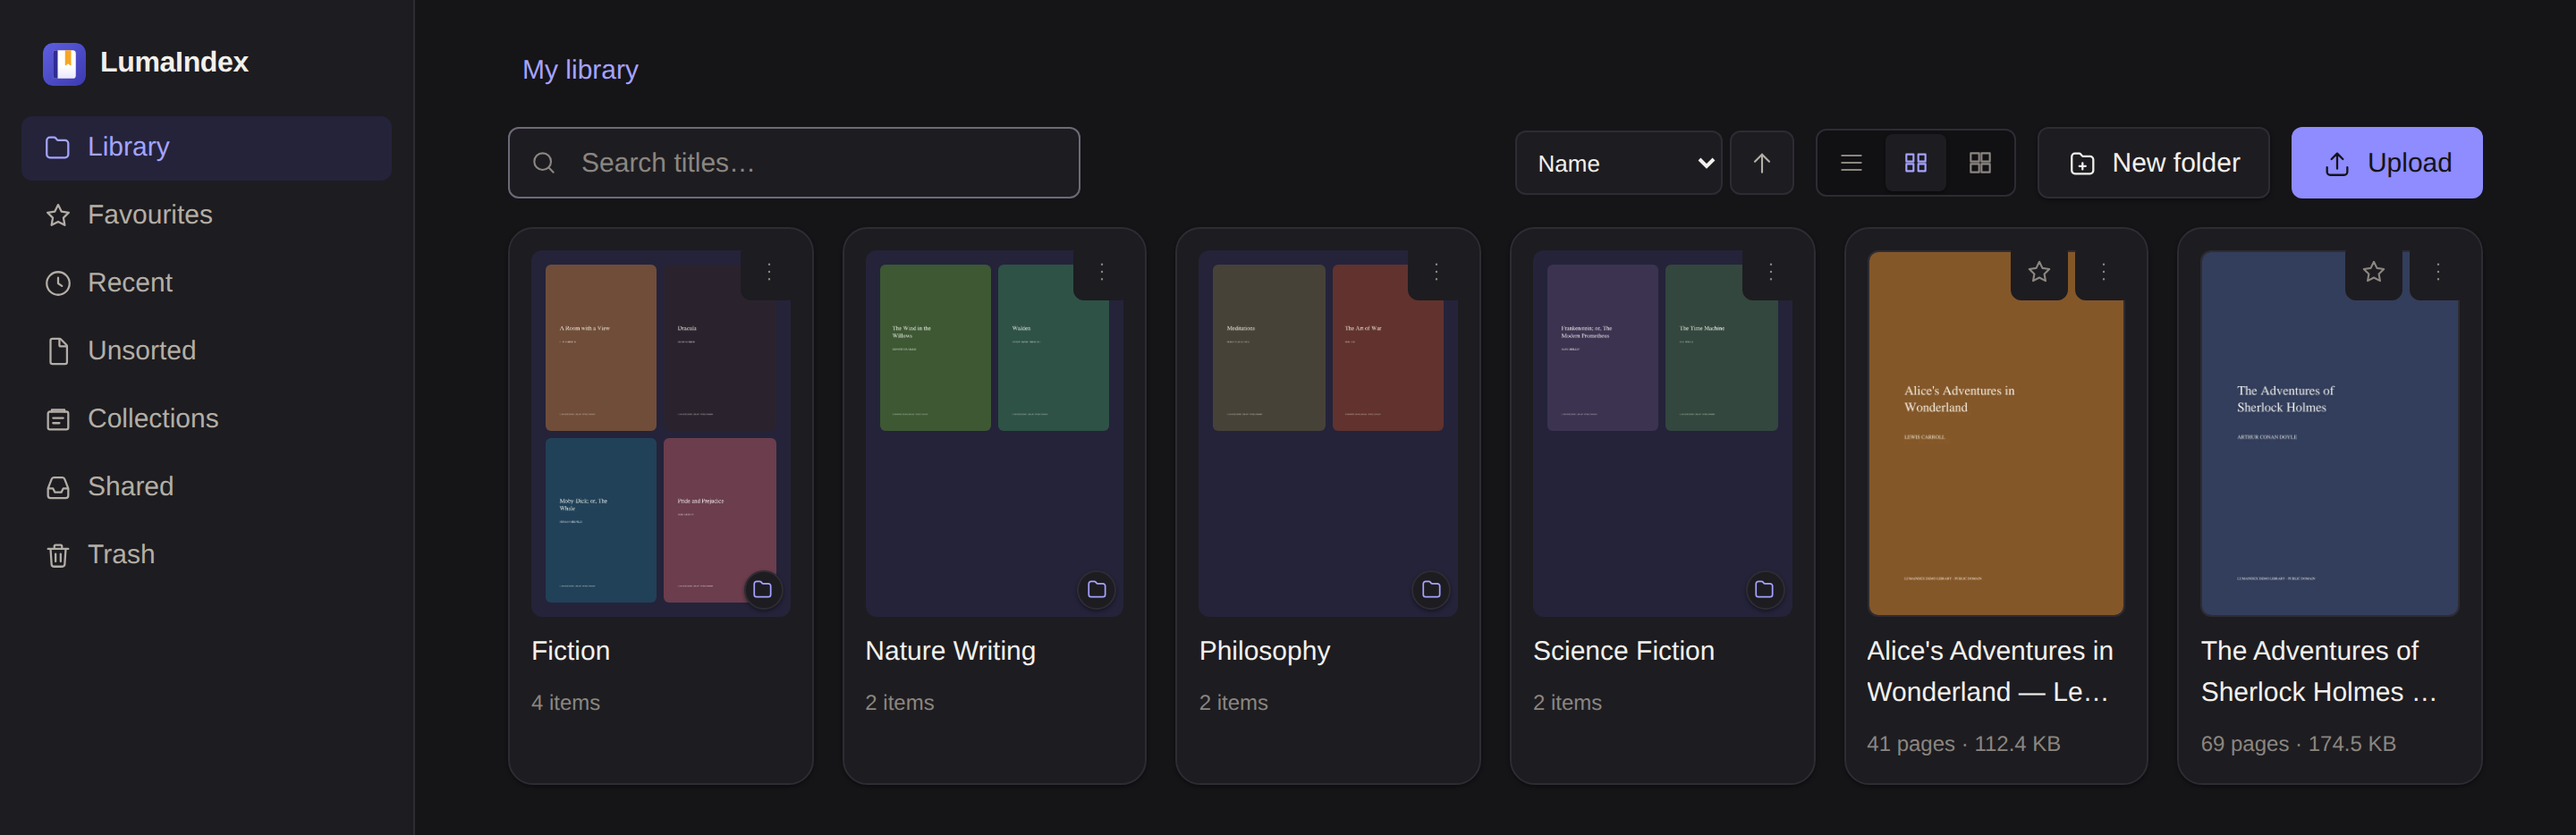
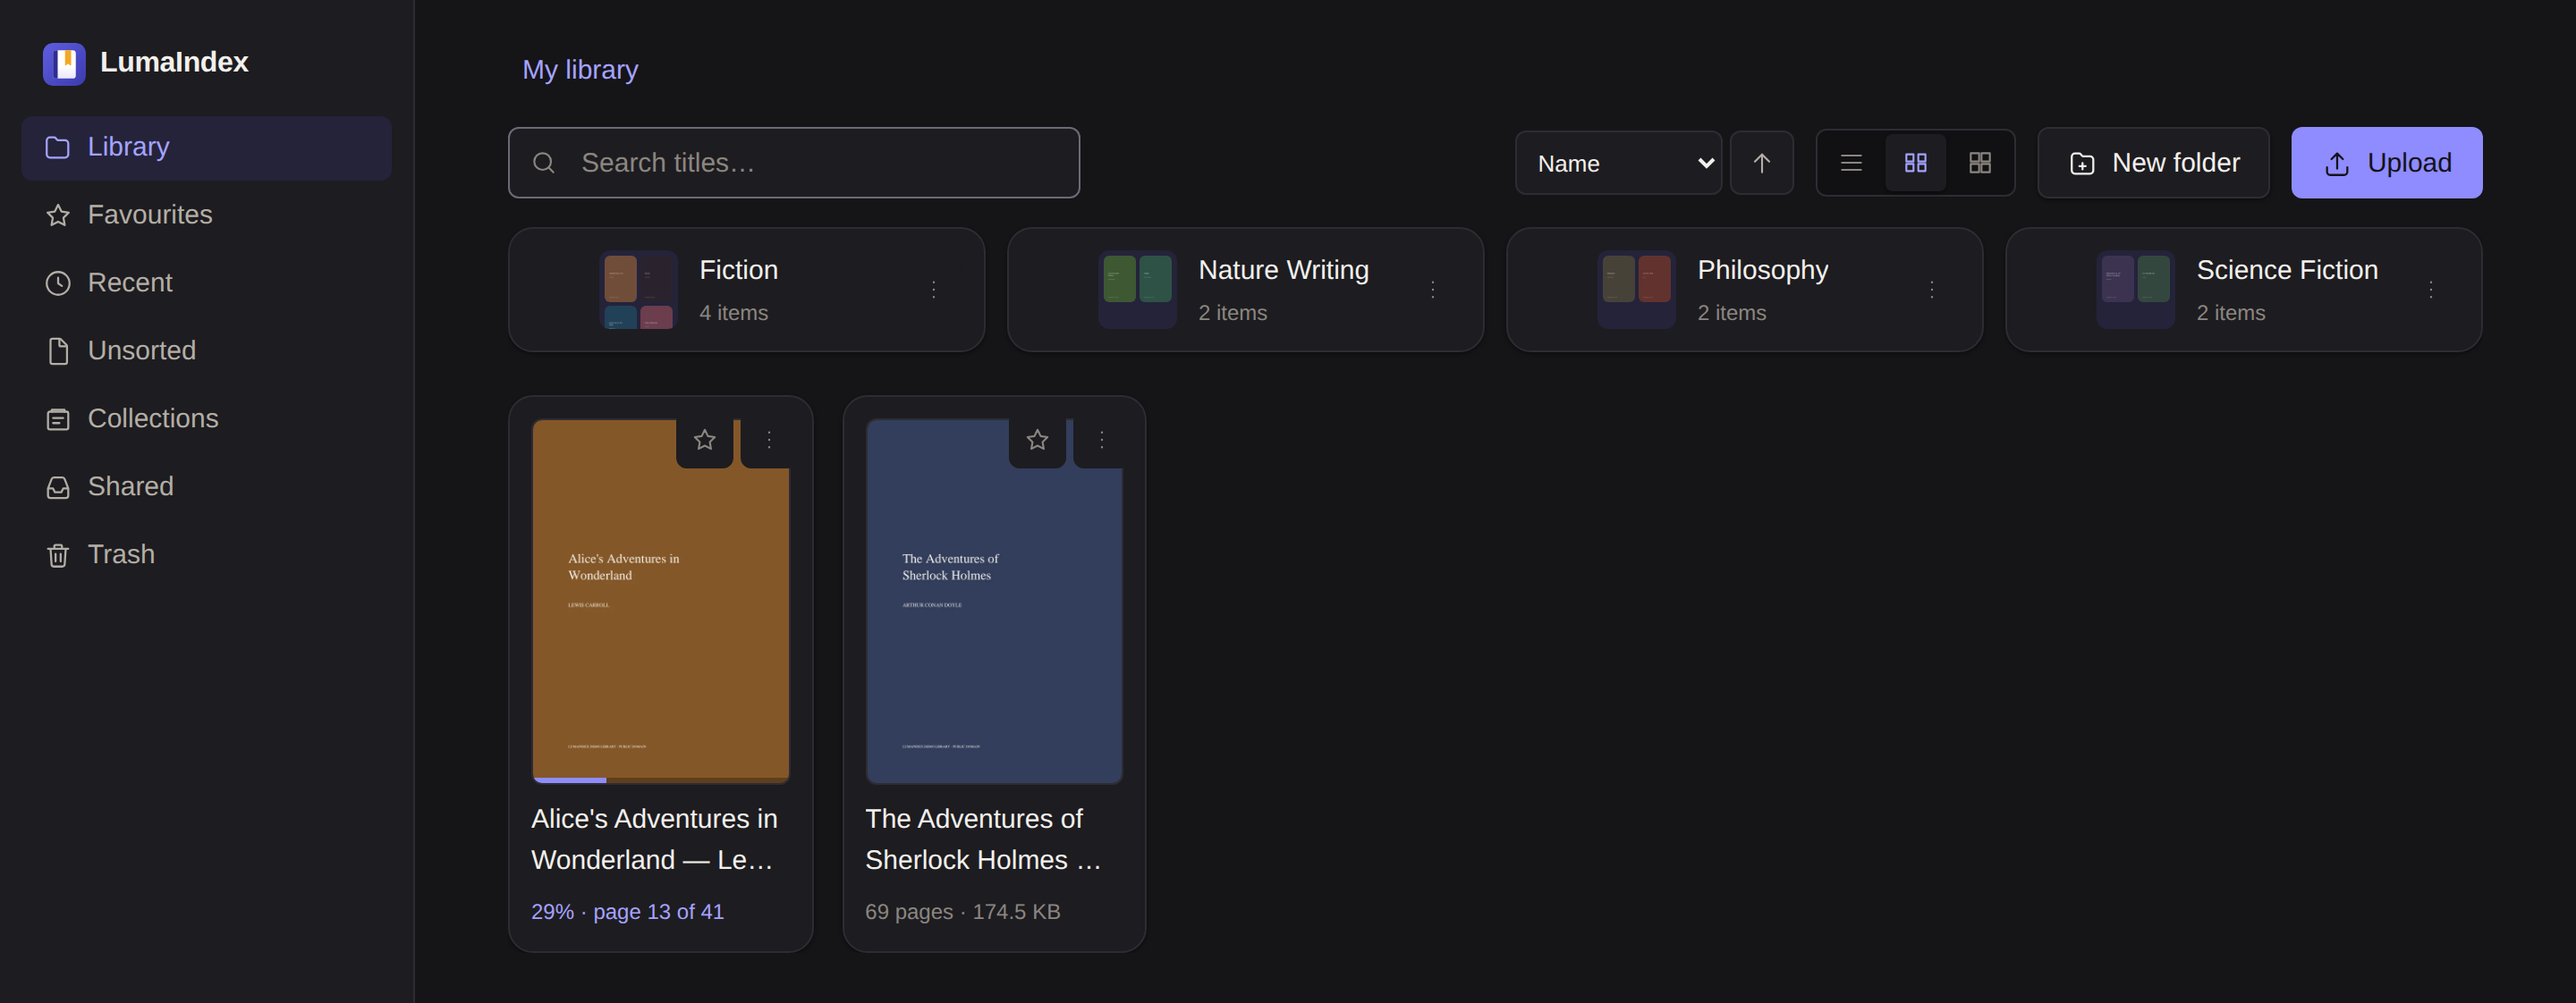
Put progress on the cover, and stop folders pretending to be books
Second slice: what a card says.

Every book in the listing already carried its reading progress — the API has
returned it all along — and the grid showed page count and file size instead.
So the one thing you look for, on the shelf you are scanning, was the one thing
missing, while two numbers you rarely want had the space.

The bar goes on the cover, because that is what you recognise a book by, and
the meta line under it leads with where you got to when there is anywhere to
get to; page count and size still show for a book you have not opened. The
track is a scrim rather than a token colour: a surface colour vanishes into a
pale cover and shouts on a dark one. Nothing is drawn at 0% — a book nobody has
opened has nothing to say — and a finished book keeps a full bar, which is
information rather than clutter. Thumbnails at 28px are left alone.

Folders stop being book-shaped. A folder card was a portrait tile the same
shape and size as a cover, so scanning the grid meant telling two kinds of
thing apart by their contents rather than their outline. It is a wide short row
now, mosaic beside the name, four across a desktop and one across a phone, in
its own band above the books rather than interleaved with them — spanning items
in a shared grid left the rows ragged.

Laying the row out surfaced a collision worth naming: the select checkbox and
the row menu were absolutely positioned for a card whose cover filled it, and
[…]

diff --git a/frontend/pages/index.vue b/frontend/pages/index.vue
@@ -774,56 +774,70 @@ function itemLabel(folder: Folder): string {
       </div>
 
       <!-- Grid and large icons ----------------------------------------- -->
-      <div v-else :class="['cards', view]">
-        <div v-for="folder in folders" :key="`f${folder.id}`"
-             class="card folder-card panel"
-             :style="{ order: filesFirst ? 2 : 1 }"
-             :class="{ 'drop-into': dropTarget === folder.id,
-                       'is-selected': selection.has('folder', folder.id) }" draggable="true"
-             @dragstart="onRowDragStart($event, 'folder', folder.id)" @dragend="onRowDragEnd"
-             @dragover="onFolderDragOver($event, folder)"
-             @dragleave="dropTarget = 'none'" @drop="onFolderDrop($event, folder)">
-          <label class="card-pick" :class="{ on: selection.has('folder', folder.id) }"
-                 @click.stop>
-            <input type="checkbox" :checked="selection.has('folder', folder.id)"
-                   :aria-label="`Select ${folder.name}`"
-                   @change="selection.toggle('folder', folder.id)" />
-          </label>
-          <button class="card-open" type="button"
-                  @click="rowClick('folder', folder.id, $event, () => open(folder))">
-            <FolderCover :folder="folder" :size="view === 'large' ? 'lg' : 'md'" />
-            <span class="card-title">{{ folder.name }}</span>
-            <span class="card-meta tertiary">{{ itemLabel(folder) }}</span>
-          </button>
-          <RowMenu class="card-menu" :actions="folderActions(folder)"
-                   :label="`Actions for ${folder.name}`" />
+      <div v-else class="listing">
+        <!-- Two bands rather than one grid: a folder is a different kind
+             of thing from a book, and interleaving them left the rows
+             ragged. Sorting by type swaps the bands over. -->
+        <div v-if="folders.length" class="folders"
+             :style="{ order: filesFirst ? 2 : 1 }">
+          <div v-for="folder in folders" :key="`f${folder.id}`"
+               class="card folder-card panel"
+               :class="{ 'drop-into': dropTarget === folder.id,
+                         'is-selected': selection.has('folder', folder.id) }" draggable="true"
+               @dragstart="onRowDragStart($event, 'folder', folder.id)" @dragend="onRowDragEnd"
+               @dragover="onFolderDragOver($event, folder)"
+               @dragleave="dropTarget = 'none'" @drop="onFolderDrop($event, folder)">
+            <label class="card-pick" :class="{ on: selection.has('folder', folder.id) }"
+                   @click.stop>
+              <input type="checkbox" :checked="selection.has('folder', folder.id)"
+                     :aria-label="`Select ${folder.name}`"
+                     @change="selection.toggle('folder', folder.id)" />
+            </label>
+            <button class="card-open" type="button"
+                    @click="rowClick('folder', folder.id, $event, () => open(folder))">
+              <FolderCover :folder="folder" size="sm" />
+              <span class="card-body">
+                <span class="card-title">{{ folder.name }}</span>
+                <span class="card-meta tertiary">{{ itemLabel(folder) }}</span>
+              </span>
+            </button>
+            <RowMenu class="card-menu" :actions="folderActions(folder)"
+                     :label="`Actions for ${folder.name}`" />
+          </div>
         </div>
-        <div v-for="book in books" :key="`b${book.id}`" class="card panel"
-             :style="{ order: filesFirst ? 1 : 2 }"
-             :class="{ 'is-selected': selection.has('book', book.id) }" draggable="true"
-             @dragstart="onRowDragStart($event, 'book', book.id)" @dragend="onRowDragEnd">
-          <label class="card-pick" :class="{ on: selection.has('book', book.id) }" @click.stop>
-            <input type="checkbox" :checked="selection.has('book', book.id)"
-                   :aria-label="`Select ${book.title}`"
-                   @change="selection.toggle('book', book.id)" />
-          </label>
-          <NuxtLink class="card-open" :to="bookHref(book)"
-                    @click="rowClick('book', book.id, $event)">
-            <BookCover :book="book" :size="view === 'large' ? 'lg' : 'md'" />
-            <span class="card-title">{{ book.title }}</span>
-            <span class="card-meta tertiary">
-              {{ book.page_count ? `${book.page_count} pages` : 'Preparing…' }}
-              <template v-if="book.source"> · {{ formatBytes(book.source.file_size) }}</template>
-            </span>
-          </NuxtLink>
-          <button class="star card-star" type="button" :class="{ on: book.is_favourite }"
-                  :title="book.is_favourite ? 'Remove from favourites' : 'Add to favourites'"
-                  :aria-pressed="book.is_favourite"
-                  @click.stop.prevent="toggleFavourite(book)">
-            <AppIcon :name="book.is_favourite ? 'star-filled' : 'star'" :size="16" />
-          </button>
-          <RowMenu class="card-menu" :actions="bookActions(book)"
-                   :label="`Actions for ${book.title}`" />
+
+        <div v-if="books.length" :class="['cards', view]"
+             :style="{ order: filesFirst ? 1 : 2 }">
+          <div v-for="book in books" :key="`b${book.id}`" class="card panel"
+               :class="{ 'is-selected': selection.has('book', book.id) }" draggable="true"
+               @dragstart="onRowDragStart($event, 'book', book.id)" @dragend="onRowDragEnd">
+            <label class="card-pick" :class="{ on: selection.has('book', book.id) }" @click.stop>
+              <input type="checkbox" :checked="selection.has('book', book.id)"
+                     :aria-label="`Select ${book.title}`"
+                     @change="selection.toggle('book', book.id)" />
+            </label>
+            <NuxtLink class="card-open" :to="bookHref(book)"
+                      @click="rowClick('book', book.id, $event)">
+              <BookCover :book="book" :size="view === 'large' ? 'lg' : 'md'" />
+              <span class="card-title">{{ book.title }}</span>
+              <span v-if="book.progress" class="card-meta reading">
+                {{ Math.round(book.progress.percentage) }}%<template v-if="book.page_count">
+                  · page {{ book.progress.page + 1 }} of {{ book.page_count }}</template>
+              </span>
+              <span v-else class="card-meta tertiary">
+                {{ book.page_count ? `${book.page_count} pages` : 'Preparing…' }}
+                <template v-if="book.source"> · {{ formatBytes(book.source.file_size) }}</template>
+              </span>
+            </NuxtLink>
+            <button class="star card-star" type="button" :class="{ on: book.is_favourite }"
+                    :title="book.is_favourite ? 'Remove from favourites' : 'Add to favourites'"
+                    :aria-pressed="book.is_favourite"
+                    @click.stop.prevent="toggleFavourite(book)">
+              <AppIcon :name="book.is_favourite ? 'star-filled' : 'star'" :size="16" />
+            </button>
+            <RowMenu class="card-menu" :actions="bookActions(book)"
+                     :label="`Actions for ${book.title}`" />
+          </div>
         </div>
       </div>
 
@@ -1013,6 +1027,23 @@ function itemLabel(folder: Folder): string {
 .cards > .card { max-width: 320px; }
 .card { position: relative; padding: var(--space-3); transition: box-shadow var(--duration) var(--ease); }
 .card:hover { box-shadow: var(--shadow-md); }
+.listing { display: flex; flex-direction: column; gap: var(--space-5); }
+
+/* Wider and shorter than a cover, sized so a desktop shows four across. */
+.folders {
+  display: grid; gap: var(--space-3);
+  grid-template-columns: repeat(auto-fill, minmax(232px, 1fr));
+}
+
+/* A folder is not a book, so it stops being book-shaped: the mosaic sits
+   beside the name instead of standing in for a cover. */
+.folder-card { align-self: start; }
+.folder-card .card-open { display: flex; align-items: center; gap: var(--space-3); }
+.folder-card .card-body { min-width: 0; display: grid; gap: 2px; text-align: left; }
+
+/* Where you got to reads as progress, not as metadata. */
+.card-meta.reading { color: var(--accent-text); }
+
 .card-open {
   display: grid; gap: var(--space-2); width: 100%;
   background: none; border: 0; padding: 0; text-align: left;
@@ -1026,7 +1057,14 @@ function itemLabel(folder: Folder): string {
 .card-meta { font-size: var(--text-xs); }
 .card-menu { position: absolute; top: var(--space-2); right: var(--space-2);
              background: var(--surface); border-radius: var(--radius-sm); }
-.folder-card .card-open { align-content: start; }
+/* In a row the checkbox and the menu sit in the row, not on top of it. They
+   were absolutely positioned for a card whose cover filled it; here the mosaic
+   is in the top-left corner the checkbox was claiming, and on a phone — where
+   selection is always visible rather than revealed on hover — it covered it. */
+.folder-card { display: flex; align-items: center; gap: var(--space-2); }
+.folder-card .card-pick,
+.folder-card .card-menu { position: static; flex: none; }
+.folder-card .card-open { flex: 1; min-width: 0; align-content: start; }
 
 /* -- skeleton ----------------------------------------------------------- */
 .skeleton { pointer-events: none; }

diff --git a/frontend/tests/BookCover.test.ts b/frontend/tests/BookCover.test.ts
@@ -129,3 +129,55 @@ describe('when the cover is replaced', () => {
     expect(w.find('img').classes()).not.toContain('loaded')
   })
 })
+
+describe('how far in you are', () => {
+  const started = (percentage: number, page = 0) =>
+    book({ progress: { page, page_fraction: 0, percentage, last_opened_at: null } })
+
+  it('draws a bar across the cover once a book has been opened', () => {
+    const w = mount(BookCover, {
+      props: { book: started(33, 30) },
+      global: { stubs: { AppIcon: true } },
+    })
+
+    const bar = w.find('.progress')
+    expect(bar.exists()).toBe(true)
+    expect(bar.attributes('aria-valuenow')).toBe('33')
+    expect(w.find('.read').attributes('style')).toContain('width: 33%')
+  })
+
+  it('says nothing about a book nobody has opened', () => {
+    expect(mountCover(book()).find('.progress').exists()).toBe(false)
+    expect(mountCover(started(0)).find('.progress').exists()).toBe(false)
+  })
+
+  it('keeps a full bar on a finished book, because that is information too', () => {
+    const w = mount(BookCover, {
+      props: { book: started(100) },
+      global: { stubs: { AppIcon: true } },
+    })
+    expect(w.find('.read').attributes('style')).toContain('width: 100%')
+  })
+
+  it('leaves a thumbnail alone: 28px has no room for a bar', () => {
+    const w = mount(BookCover, {
+      props: { book: started(50), size: 'sm' },
+      global: { stubs: { AppIcon: true } },
+    })
+    expect(w.find('.progress').exists()).toBe(false)
+  })
+
+  it('clamps a percentage the server should never send but might', () => {
+    const over = mount(BookCover, {
+      props: { book: started(140) },
+      global: { stubs: { AppIcon: true } },
+    })
+    expect(over.find('.read').attributes('style')).toContain('width: 100%')
+
+    const under = mount(BookCover, {
+      props: { book: started(-10) },
+      global: { stubs: { AppIcon: true } },
+    })
+    expect(under.find('.progress').exists()).toBe(false)
+  })
+})

diff --git a/frontend/components/BookCover.vue b/frontend/components/BookCover.vue
@@ -18,6 +18,14 @@ const loaded = ref(false)
 const image = ref<HTMLImageElement | null>(null)
 
 const pending = computed(() => !props.book.thumbnail_path)
+
+const percent = computed(() => {
+  const value = props.book.progress?.percentage ?? 0
+  return Math.max(0, Math.min(100, value))
+})
+// Nothing to say about a book nobody has opened, and no room to say it on a
+// thumbnail. A finished book keeps a full bar: that is information too.
+const showProgress = computed(() => props.size !== 'sm' && percent.value > 0)
 const src = computed(() => `/api/library/books/${props.book.id}/thumbnail`)
 
 /**
@@ -88,6 +96,15 @@ watch(() => props.book.thumbnail_path, async () => {
       </span>
     </div>
     <div v-else-if="!loaded" class="shimmer" aria-hidden="true" />
+
+    <!-- How far in you are, on the thing you recognise the book by. It was
+         only ever in a text column before, which is a place you read rather
+         than glance at. Hidden at sm: a 28px cover has no room for it. -->
+    <div v-if="showProgress" class="progress" role="progressbar"
+         :aria-valuenow="Math.round(percent)" aria-valuemin="0" aria-valuemax="100"
+         :aria-label="`${Math.round(percent)}% read`">
+      <div class="read" :style="{ width: `${percent}%` }" />
+    </div>
   </div>
 </template>
 
@@ -127,6 +144,14 @@ img.loaded { opacity: 1; }
   background-size: 200% 100%;
   animation: shimmer 1.4s linear infinite;
 }
+
+/* Sits on the artwork, so the track is a scrim rather than a token colour: a
+   surface colour would vanish into a pale cover and shout on a dark one. */
+.progress {
+  position: absolute; left: 0; right: 0; bottom: 0;
+  height: 3px; background: rgb(0 0 0 / 28%);
+}
+.read { height: 100%; background: var(--accent); }
 
 @keyframes shimmer { to { background-position: -200% 0; } }
 

diff --git a/frontend/components/FolderCover.vue b/frontend/components/FolderCover.vue
@@ -13,7 +13,7 @@ import type { Folder } from '~/composables/useLibrary'
  * the alternative is a per-tile shimmer, and a shimmer whose load event goes
  * missing is the bug that has already been fixed twice in BookCover.
  */
-const props = withDefaults(defineProps<{ folder: Folder; size?: 'md' | 'lg' }>(), {
+const props = withDefaults(defineProps<{ folder: Folder; size?: 'sm' | 'md' | 'lg' }>(), {
   size: 'md',
 })
 
@@ -42,7 +42,7 @@ watch(() => props.folder.preview_book_ids, () => { failed.value = [] })
 
 <template>
   <div :class="['folder-cover', props.size, { 'is-empty': empty }]">
-    <AppIcon v-if="empty" name="folder" :size="props.size === 'lg' ? 34 : 26" />
+    <AppIcon v-if="empty" name="folder" :size="props.size === 'lg' ? 34 : props.size === 'sm' ? 18 : 26" />
     <div v-else class="mosaic" aria-hidden="true">
       <span v-for="(id, index) in cells" :key="index" class="tile">
         <img v-if="id !== null" :src="`/api/library/books/${id}/thumbnail`" alt=""
@@ -67,6 +67,12 @@ watch(() => props.folder.preview_book_ids, () => { failed.value = [] })
   color: var(--accent-text);
   overflow: hidden;
 }
+
+/* Beside a name in a row, not standing in for a book cover. Square, because a
+   page-shaped folder is what made a folder read as a book in the grid. */
+.sm { width: 44px; aspect-ratio: 1; border-radius: var(--radius-sm); }
+.sm .mosaic { gap: 2px; padding: 3px; }
+.sm .corner { display: none; }
 
 .mosaic {
   display: grid;
